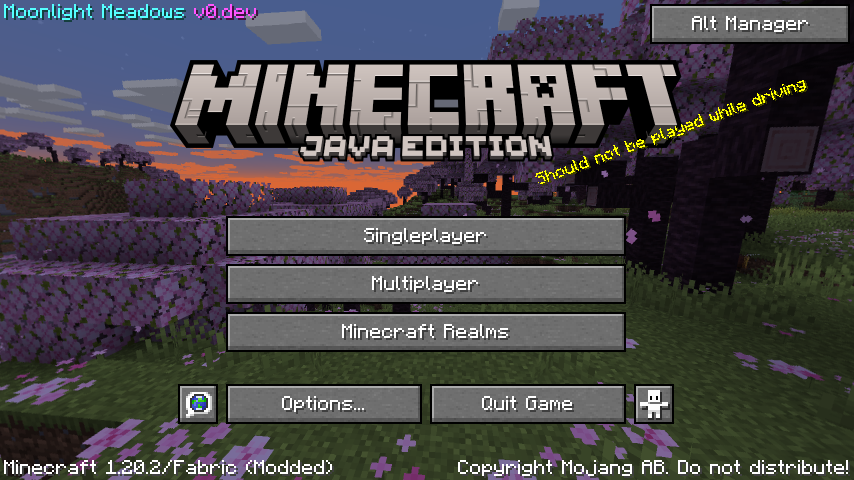
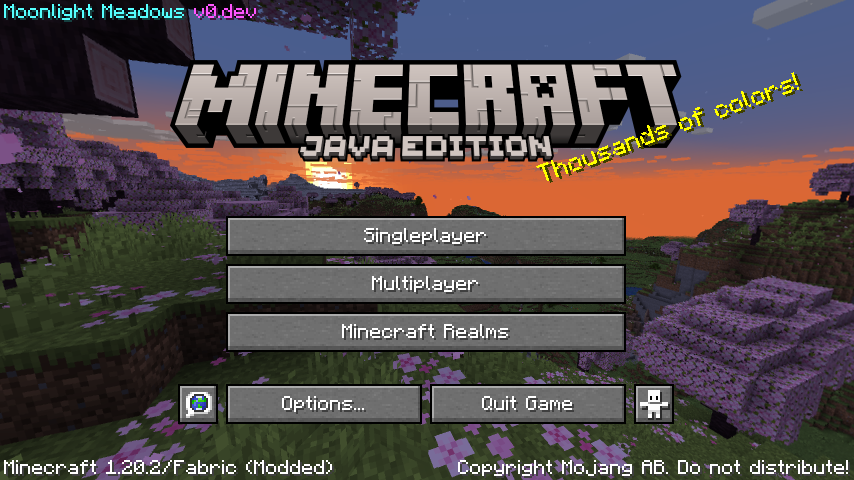
add some new modules, kill off alt manager, clean up other code

diff --git a/src/main/java/me/kawaiizenbo/moonlight/mixin/TitleScreenMixin.java b/src/main/java/me/kawaiizenbo/moonlight/mixin/TitleScreenMixin.java
@@ -1,7 +1,6 @@
 package me.kawaiizenbo.moonlight.mixin;
 
 import me.kawaiizenbo.moonlight.Moonlight;
-import me.kawaiizenbo.moonlight.ui.altmanager.AltManagerScreen;
 
 import org.spongepowered.asm.mixin.Final;
 import org.spongepowered.asm.mixin.Mixin;
@@ -10,12 +9,9 @@ import org.spongepowered.asm.mixin.injection.At;
 import org.spongepowered.asm.mixin.injection.Inject;
 import org.spongepowered.asm.mixin.injection.callback.CallbackInfo;
 
-import net.minecraft.client.MinecraftClient;
 import net.minecraft.client.gui.DrawContext;
 import net.minecraft.client.gui.screen.Screen;
 import net.minecraft.client.gui.screen.TitleScreen;
-import net.minecraft.client.gui.widget.ButtonWidget;
-import net.minecraft.text.Text;
 import net.minecraft.util.Util;
 import net.minecraft.util.math.MathHelper;
 
@@ -43,19 +39,5 @@ public abstract class TitleScreenMixin extends Screen
         int l = MathHelper.ceil(g * 255.0F) << 24;
 
         drawContext.drawTextWithShadow(this.textRenderer, Moonlight.clientTag + " " + Moonlight.versionTag, 2, 2, 16777215 | l);
-    }
-
-    @Inject(at = @At("TAIL"), method = "init")
-	private void altManagerButton(CallbackInfo callbackInfo) 
-    {
-        this.addDrawableChild(ButtonWidget.builder(Text.literal("Alt Manager"), this::gotoAltManagerScreen)
-            .position(this.width - 102, 2)
-            .size(100, 20)
-            .build());
-	}
-
-    private void gotoAltManagerScreen(ButtonWidget button)
-    {
-        MinecraftClient.getInstance().setScreen(AltManagerScreen.INSTANCE);
     }
 }

diff --git a/src/main/java/me/kawaiizenbo/moonlight/module/modules/ChatSpammer.java b/src/main/java/me/kawaiizenbo/moonlight/module/modules/ChatSpammer.java
@@ -1,0 +1,30 @@
+package me.kawaiizenbo.moonlight.module.modules;
+
+import me.kawaiizenbo.moonlight.module.Category;
+import me.kawaiizenbo.moonlight.module.Module;
+import me.kawaiizenbo.moonlight.module.settings.DoubleSetting;
+import me.kawaiizenbo.moonlight.module.settings.StringSetting;
+import me.kawaiizenbo.moonlight.util.Timer;
+
+public class ChatSpammer extends Module 
+{
+    public StringSetting message = new StringSetting("Message", "E4PE4J");
+    public DoubleSetting delay = new DoubleSetting("Delay (Seconds)", 1, 0.1, 10, 1);
+    private Timer timer = new Timer();
+
+    public ChatSpammer()
+    {
+        super("Chat Spammer", "Spams a selected message in chat.", Category.CHAT);
+        settings.add(message);
+        settings.add(delay);
+    }
+
+    @Override
+    public void tick()
+    {
+        if (timer.hasTimeElapsed((long)delay.value * 1000, true)) 
+        {
+        	mc.player.networkHandler.sendChatMessage(message.value);
+        }
+    }
+}

diff --git a/src/main/java/me/kawaiizenbo/moonlight/util/ChatUtils.java b/src/main/java/me/kawaiizenbo/moonlight/util/ChatUtils.java
@@ -1,10 +1,7 @@
 package me.kawaiizenbo.moonlight.util;
 
-import org.jetbrains.annotations.Nullable;
-
 import net.minecraft.client.MinecraftClient;
 import net.minecraft.text.Text;
-import net.minecraft.util.Formatting;
 
 public class ChatUtils 
 {
@@ -12,18 +9,7 @@ public class ChatUtils
 
     public static void sendMsg(String message) 
     {
-        sendMsg(null, null, Text.literal(message));
-    }
-
-    public static void sendMsg(@Nullable String prefixTitle, @Nullable Formatting prefixColor, Text msg) 
-    {
         if (mc.world == null) return;
-
-        //Text message = Text.literal("");
-        //message.append(CommandManager.get().getPrefix());
-        //if (prefixTitle != null) message.append(CommandManager.get().getPrefix());
-        //message.append(msg);
-
-        mc.inGameHud.getChatHud().addMessage(msg);
+        mc.inGameHud.getChatHud().addMessage(Text.literal(message));
     }
 }

diff --git a/src/main/java/me/kawaiizenbo/moonlight/module/modules/AutoJump.java b/src/main/java/me/kawaiizenbo/moonlight/module/modules/AutoJump.java
@@ -1,0 +1,27 @@
+package me.kawaiizenbo.moonlight.module.modules;
+
+import me.kawaiizenbo.moonlight.module.Category;
+import me.kawaiizenbo.moonlight.module.Module;
+import me.kawaiizenbo.moonlight.module.settings.DoubleSetting;
+import me.kawaiizenbo.moonlight.util.Timer;
+
+public class AutoJump extends Module
+{
+    public DoubleSetting delay = new DoubleSetting("Delay (Seconds)", 1, 0.1, 10, 1);
+    private Timer timer = new Timer();
+
+    public AutoJump()
+    {
+        super("Auto Jump", "Automatically jumps on a timer.", Category.MOVEMENT);
+        settings.add(delay);
+    }
+
+    @Override
+    public void tick()
+    {
+        if (timer.hasTimeElapsed((long)delay.value * 1000, true) && mc.player.isOnGround() && mc.player.hasVehicle() == false) 
+        {
+        	mc.player.jump();
+        }
+    }
+}

diff --git a/src/main/java/me/kawaiizenbo/moonlight/ui/clickgui/SettingsScreen.java b/src/main/java/me/kawaiizenbo/moonlight/ui/clickgui/SettingsScreen.java
@@ -36,7 +36,7 @@ public class SettingsScreen extends Screen
         drawContext.fill(x, y, x+windowWidth, y+windowHeight, 0xFF222222);
         drawContext.fill(x, y, x+windowWidth, y+16, module.category.color);
         drawContext.fill(x+2, y+2, x+(windowWidth-2), y+14, 0xFF222222);
-        drawContext.drawCenteredTextWithShadow(textRenderer, "Module Settings: "+module.name, x+(windowWidth/2), y+4, 0xFFFFFF);
+        drawContext.drawCenteredTextWithShadow(textRenderer, module.name, x+(windowWidth/2), y+4, 0xFFFFFF);
         drawContext.drawText(textRenderer, module.description, x+8, y+24, 0xFFFFFF, true);
         backButton = new TextButton(ColorUtils.underline + "< Back", x+4, y+4, 0xFFFFFF);
         backButton.render(drawContext, textRenderer, mouseX, mouseY);

diff --git a/src/main/java/me/kawaiizenbo/moonlight/module/modules/Rotation.java b/src/main/java/me/kawaiizenbo/moonlight/module/modules/Rotation.java
@@ -1,0 +1,25 @@
+package me.kawaiizenbo.moonlight.module.modules;
+
+import me.kawaiizenbo.moonlight.module.Category;
+import me.kawaiizenbo.moonlight.module.Module;
+import me.kawaiizenbo.moonlight.module.settings.DoubleSetting;
+
+public class Rotation extends Module
+{
+    DoubleSetting pitch = new DoubleSetting("Pitch", 0, 0, 360, 0);
+    DoubleSetting yaw = new DoubleSetting("Yaw", 0, 0, 360, 0);
+    
+    public Rotation()
+    {
+        super("Rotation", "Locks camera to specified pitch and yaw.", Category.PLAYER);
+        settings.add(pitch);
+        settings.add(yaw);
+    }
+
+    @Override
+    public void tick()
+    {
+        mc.player.setPitch((float)pitch.value);
+        mc.player.setYaw((float)yaw.value);
+    }
+}

diff --git a/src/main/java/me/kawaiizenbo/moonlight/ui/ModulesListOverlay.java b/src/main/java/me/kawaiizenbo/moonlight/ui/ModulesListOverlay.java
@@ -25,7 +25,7 @@ public class ModulesListOverlay
         {
             if (!m.showInModulesList.value) continue;
             int nameWidth = mc.textRenderer.getWidth(m.name);
-            drawContext.fill(scaledWidth - nameWidth - 8, yOffset, scaledWidth, yOffset+12, 0x55222222);
+            drawContext.fill(scaledWidth - nameWidth - 8, yOffset, scaledWidth, yOffset+12, 0x77222222);
             drawContext.fill(scaledWidth - 2, yOffset, scaledWidth, yOffset+12, Moonlight.uiColorA);
             drawContext.drawText(mc.textRenderer, m.name, scaledWidth - nameWidth - 4, yOffset + 2, 0xFFFFFFFF, false);
             yOffset += 12;

diff --git a/src/main/java/me/kawaiizenbo/moonlight/util/Timer.java b/src/main/java/me/kawaiizenbo/moonlight/util/Timer.java
@@ -1,0 +1,32 @@
+package me.kawaiizenbo.moonlight.util;
+
+public class Timer 
+{
+    public long lastMS = System.currentTimeMillis();
+	
+	public void reset() 
+    {
+		lastMS = System.currentTimeMillis();
+	}
+	
+	public boolean hasTimeElapsed(long time, boolean reset) 
+    {
+		if (lastMS > System.currentTimeMillis()) 
+        {
+			lastMS = System.currentTimeMillis();
+		}
+		
+		if (System.currentTimeMillis()-lastMS > time) 
+        {
+			if (reset) reset();
+			
+			return true;
+		}
+
+        else 
+        {
+			return false;
+		}
+		
+	}
+}

diff --git a/src/main/java/me/kawaiizenbo/moonlight/module/ModuleManager.java b/src/main/java/me/kawaiizenbo/moonlight/module/ModuleManager.java
@@ -19,7 +19,9 @@ public class ModuleManager
 			new Fullbright(),
 			new Speed(),
 			new ModulesList(),
-			new TestModule()
+			new ChatSpammer(),
+			new Rotation(),
+			new AutoJump()
 		);
     }
 	
